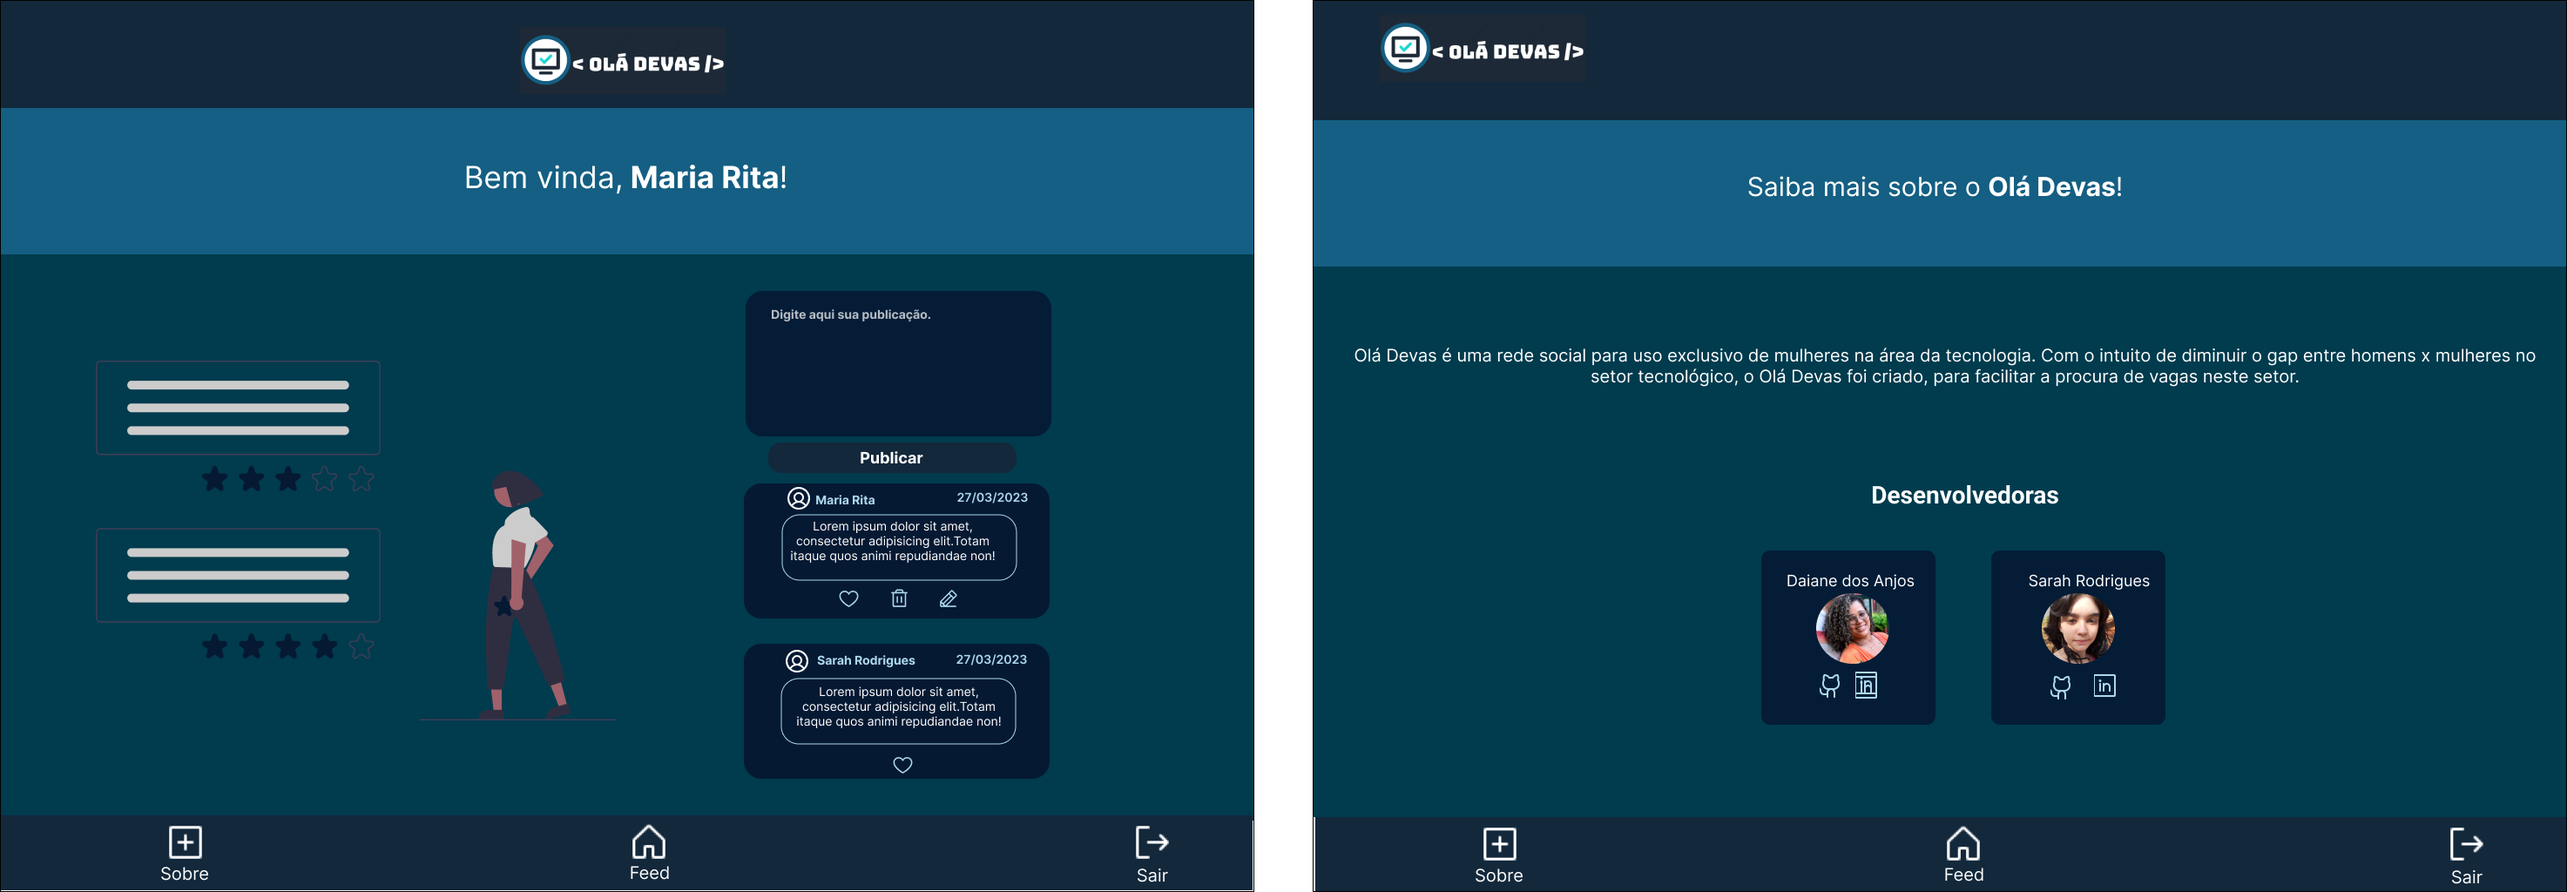
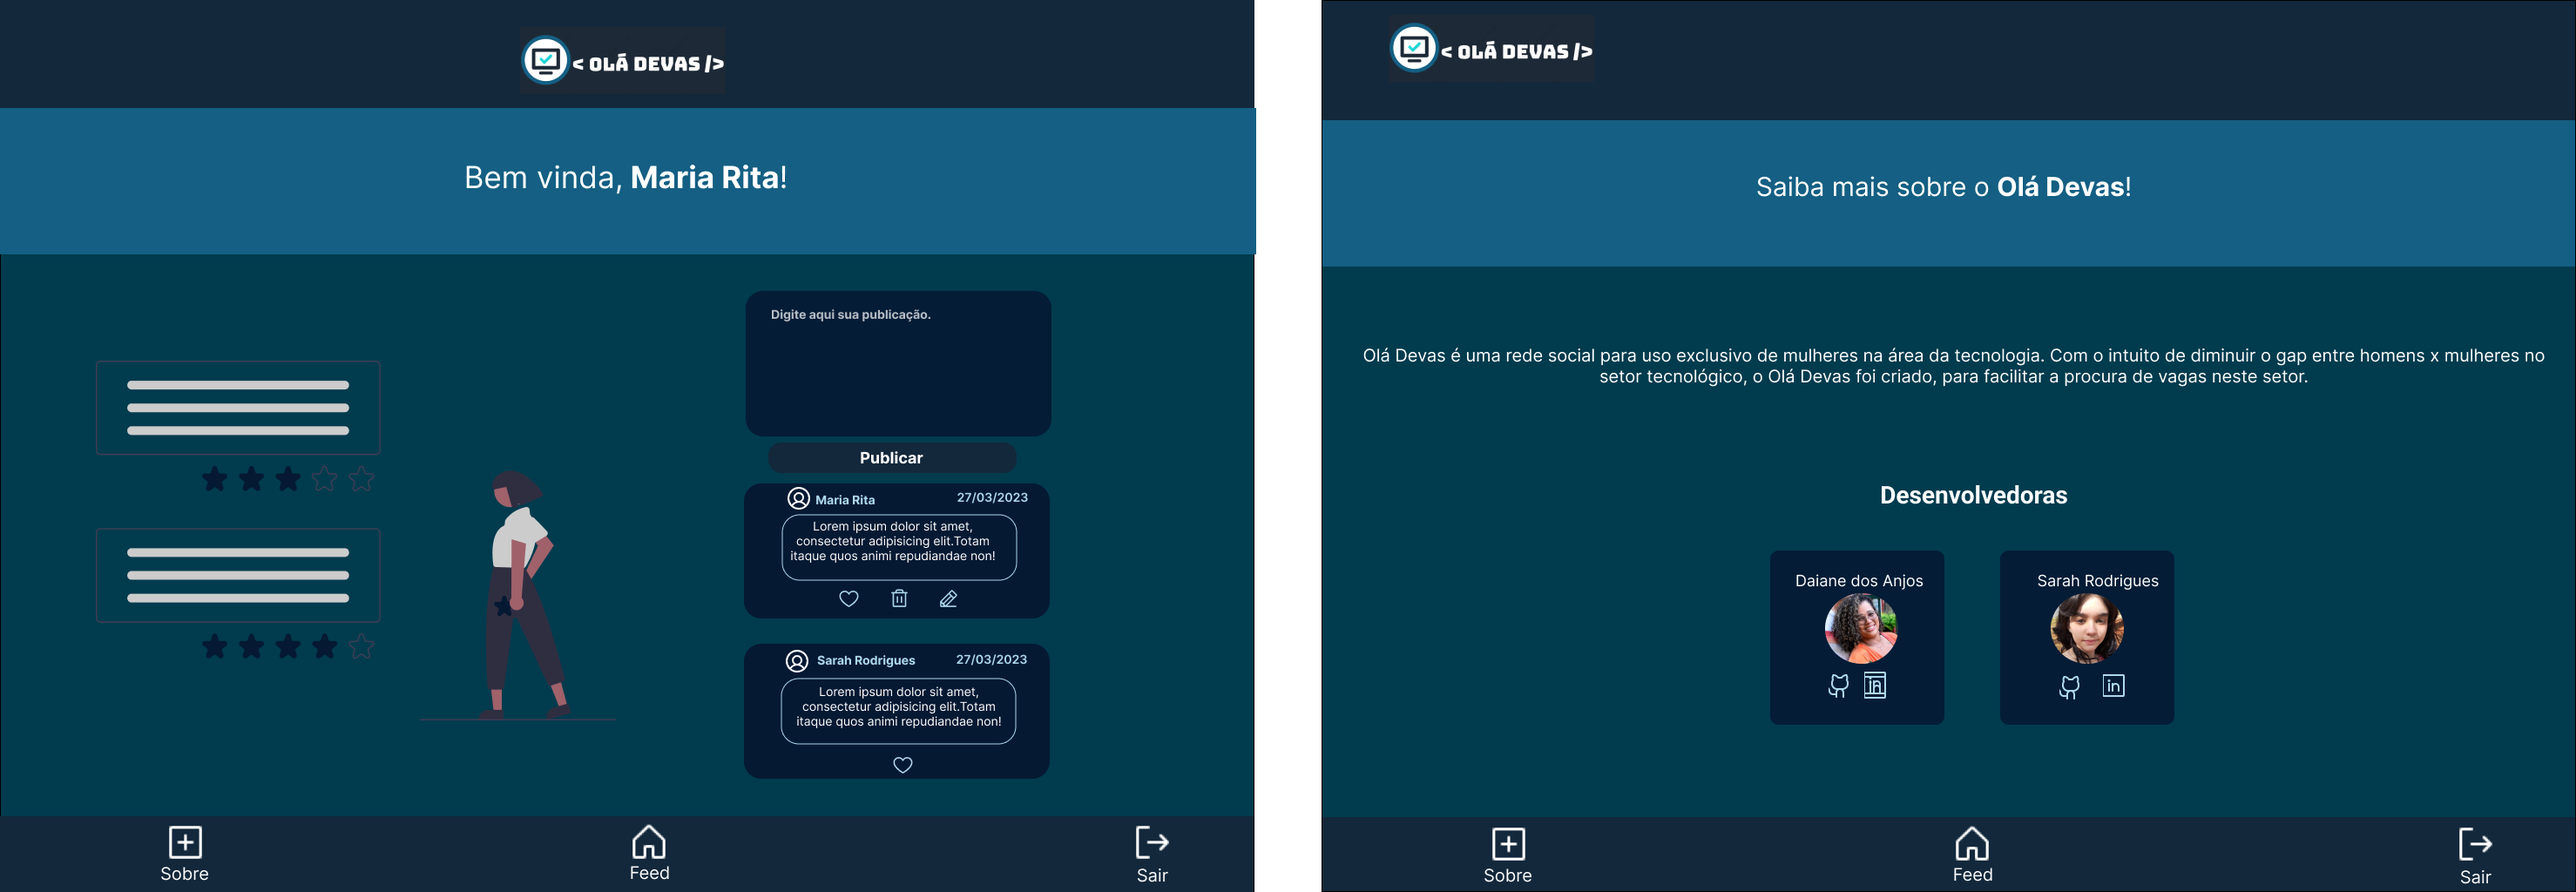
readme

diff --git a/dist/index.html b/dist/index.html
@@ -10,11 +10,13 @@
   
   
   <title>Olá Devas</title>
-  <script type="module" crossorigin src="/assets/index.949a631e.js"></script>
+  <script type="module" crossorigin src="/assets/index.2474b8b4.js"></script>
   <link rel="stylesheet" href="/assets/index.56302869.css">
 </head>
 <body>
-  <main id="root"></main> 
+
+  <main id="root"></main>
+
 </body>
 </html>
 

diff --git a/src/js/components/footer.js b/src/js/components/footer.js
@@ -21,7 +21,7 @@ export function footer() {
       <li class="li">
          <a href="/#feed">
           <img src="${house}" alt="">
-           <p class="text">feed</p>
+           <p class="text">Feed</p>
          </a>
       </li>  
       <li class="li">      

diff --git a/src/styles/publish.css b/src/styles/publish.css
@@ -215,6 +215,10 @@ height: 100px;
 
 .message-textarea{
   color: #add8ec;
+  display: flex;
+  justify-content: center;
+  margin-top: 2px;
+
 }
 
 .display{

diff --git a/README.md b/README.md
@@ -74,7 +74,7 @@ Cada uma de suas histórias de usuário possui:
   <img width= "900px" src= "./public/img/loginecadastro.png">
 
   #### Protótipos Mobile
-  <img width= "500px" src= "./public/img/loginecadastro-mobile.png">
+  <img width= "500px" src= "./public/img/loginecadastromobile.png">
 
 ### Timeline/linha do tempo e sobre
 
